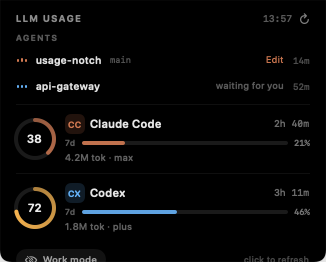
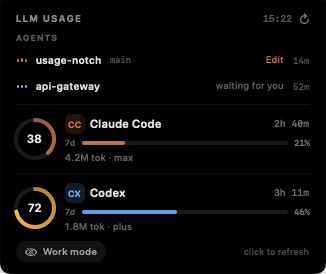
Size the open panel from what it measures, not a row count
Panel height was arithmetic over row counts, which drifts the moment content
changes: with live agent rows present the estimate fell ~40pt short and the
footer was clipped off the bottom in every placement except the island, where
the notch band happened to absorb the difference.

The panel now lays out at its natural height and reports it; the shell, the
window and the click region all follow that one number. The estimate survives
only as the value used before the first layout pass.

diff --git a/Sources/UsageNotch/UI/NotchRootView.swift b/Sources/UsageNotch/UI/NotchRootView.swift
@@ -7,6 +7,7 @@ struct NotchRootView: View {
     var onRefresh: () -> Void
     var onToggleMini: () -> Void
     var onHitTargets: ([HitTarget]) -> Void
+    var onPanelHeight: (CGFloat) -> Void
 
     private var placement: Placement { state.placement }
     private var alignment: Alignment { placement.alignment }
@@ -18,7 +19,8 @@ struct NotchRootView: View {
                providers: max(store.snapshot.visible.count, 1),
                sessions: sessions.count,
                leadProject: sessions.first?.project ?? "",
-               leadDetail: sessions.first?.detail ?? "")
+               leadDetail: sessions.first?.detail ?? "",
+               measuredBody: state.panelBodyHeight)
     }
 
     private var currentSize: CGSize { layout.size(for: state.mode) }
@@ -41,8 +43,8 @@ struct NotchRootView: View {
                   visible: state.mode == .mini)
             layer(PillContent(snapshot: store.snapshot, sessions: sessions, tone: tone, layout: layout),
                   visible: state.mode == .pill)
-            layer(ExpandedContent(store: store, state: state, layout: layout,
-                                  tone: tone, onHitTargets: onHitTargets),
+            layer(ExpandedContent(store: store, state: state, layout: layout, tone: tone,
+                                  onHitTargets: onHitTargets, onHeight: reportHeight),
                   visible: state.mode == .expanded)
         }
         .frame(width: currentSize.width, height: currentSize.height, alignment: alignment)
@@ -57,6 +59,15 @@ struct NotchRootView: View {
         .animation(Anim.morph, value: currentSize)
         .animation(Anim.morph, value: radius)
         .animation(Anim.morph, value: placement)
+    }
+
+    /// The panel measures itself; the shell, the window and the hit region all follow
+    /// that number rather than a separate guess.
+    private func reportHeight(_ height: CGFloat) {
+        let rounded = ceil(height)
+        guard abs((state.panelBodyHeight ?? 0) - rounded) > 0.5 else { return }
+        state.panelBodyHeight = rounded
+        onPanelHeight(rounded)
     }
 
     /// Hidden states stay in the tree at zero opacity — cheap, and it keeps the
@@ -199,6 +210,7 @@ private struct ExpandedContent: View {
     var layout: Layout
     var tone: UsageTone
     var onHitTargets: ([HitTarget]) -> Void
+    var onHeight: (CGFloat) -> Void
 
     var body: some View {
         let size = layout.size(for: .expanded)
@@ -209,9 +221,13 @@ private struct ExpandedContent: View {
                 islandBand
                     .frame(height: layout.placement.notch.height)
             }
+            // No fixed height: the content lays out naturally and reports what it
+            // needed, which is what everything else is then sized from.
             body(width: size.width)
+                .fixedSize(horizontal: false, vertical: true)
+                .background(RectReader { onHeight($0.height) })
         }
-        .frame(width: size.width, height: size.height, alignment: .top)
+        .frame(width: size.width, alignment: .top)
     }
 
     private var islandBand: some View {
@@ -270,7 +286,6 @@ private struct ExpandedContent: View {
                     ProviderRow(provider: provider)
                 }
             }
-            Spacer(minLength: 0)
             footer
         }
         .padding(.horizontal, Style.panelInset)

diff --git a/Sources/UsageNotch/UI/RenderHarness.swift b/Sources/UsageNotch/UI/RenderHarness.swift
@@ -30,12 +30,13 @@ enum RenderHarness {
             state.placement = Placement(edge: edge, anchor: .rightOfNotch, notch: notch)
             let root = NotchRootView(store: store, state: state,
                                      onRefresh: {}, onToggleMini: {},
-                                     onHitTargets: { _ in })
+                                     onHitTargets: { _ in }, onPanelHeight: { _ in })
             let layout = Layout(placement: state.placement,
                                 providers: max(store.snapshot.visible.count, 1),
                                 sessions: store.sessions.count,
                                 leadProject: store.sessions.first?.project ?? "",
-                                leadDetail: store.sessions.first?.detail ?? "")
+                                leadDetail: store.sessions.first?.detail ?? "",
+                                measuredBody: state.panelBodyHeight)
             let size = layout.size(for: mode)
             snapshot(root, size: size, to: outputDirectory + "/\(name).png")
             print("rendered \(name).png  \(Int(size.width))x\(Int(size.height))")
@@ -65,6 +66,14 @@ enum RenderHarness {
         hosting.layoutSubtreeIfNeeded()
         spin(until: Date().addingTimeInterval(0.4)) { false }
 
+        // The panel sizes itself now, so trust its fitting size over the estimate.
+        let fitting = hosting.fittingSize
+        if fitting.height > hosting.frame.height + 0.5 {
+            hosting.frame = CGRect(origin: .zero, size: CGSize(width: hosting.frame.width, height: ceil(fitting.height)))
+            window.setContentSize(hosting.frame.size)
+            hosting.layoutSubtreeIfNeeded()
+            spin(until: Date().addingTimeInterval(0.25)) { false }
+        }
         guard let rep = hosting.bitmapImageRepForCachingDisplay(in: hosting.bounds) else { return }
         hosting.cacheDisplay(in: hosting.bounds, to: rep)
         if let data = rep.representation(using: .png, properties: [:]) {

diff --git a/Sources/UsageNotch/UI/Layout.swift b/Sources/UsageNotch/UI/Layout.swift
@@ -23,6 +23,10 @@ struct Layout: Equatable {
     /// of guessing a fixed width and leaving the content jammed against the corners.
     var leadProject: String = ""
     var leadDetail: String = ""
+    /// Height the panel's content actually laid out to. Row-count arithmetic is only
+    /// ever an estimate — it drifts the moment a row wraps or a section appears — so
+    /// the real measurement wins once SwiftUI reports it.
+    var measuredBody: CGFloat?
 
     /// Width of a string in the rounded system font, matching what SwiftUI renders.
     private static func width(_ text: String, _ size: CGFloat, _ weight: NSFont.Weight) -> CGFloat {
@@ -63,7 +67,9 @@ struct Layout: Equatable {
     private var sessionRows: CGFloat { sessions == 0 ? 0 : CGFloat(sessions) * 26 + 8 }
 
     /// Body of the open panel, excluding any notch band above it.
-    private var panelBody: CGFloat { 44 + providerRows + sessionRows + 26 }
+    private var panelBody: CGFloat {
+        measuredBody ?? (44 + providerRows + sessionRows + 26)
+    }
 
     func size(for mode: NotchMode) -> CGSize {
         switch placement.edge {

diff --git a/Sources/UsageNotch/UI/NotchController.swift b/Sources/UsageNotch/UI/NotchController.swift
@@ -210,7 +210,11 @@ final class NotchController: NSObject, NSMenuDelegate {
             state: state,
             onRefresh: { [weak self] in self?.refresh(spin: true) },
             onToggleMini: { [weak self] in self?.toggleMiniMode() },
-            onHitTargets: { [weak self] targets in self?.hosting?.hitTargets = targets }
+            onHitTargets: { [weak self] targets in self?.hosting?.hitTargets = targets },
+            onPanelHeight: { [weak self] height in
+                self?.debugLog("panel measured \(height)")
+                self?.positionPanel()
+            }
         )
     }
 
@@ -219,7 +223,8 @@ final class NotchController: NSObject, NSMenuDelegate {
                providers: max(store.snapshot.visible.count, providersFloor),
                sessions: store.sessions.count,
                leadProject: store.sessions.first?.project ?? "",
-               leadDetail: store.sessions.first?.detail ?? "")
+               leadDetail: store.sessions.first?.detail ?? "",
+               measuredBody: state.panelBodyHeight)
     }
 
     private func currentPlacement() -> Placement {

diff --git a/Sources/UsageNotch/UI/NotchState.swift b/Sources/UsageNotch/UI/NotchState.swift
@@ -23,6 +23,8 @@ final class NotchState: ObservableObject {
     @Published var mode: NotchMode = .pill
     @Published var placement: Placement = .current
     @Published var isHovering = false
+    /// Height the open panel's content measured, once SwiftUI has laid it out.
+    @Published var panelBodyHeight: CGFloat?
     /// Accumulates 360° per refresh so the icon keeps spinning in one direction.
     @Published var spin: Double = 0
 
